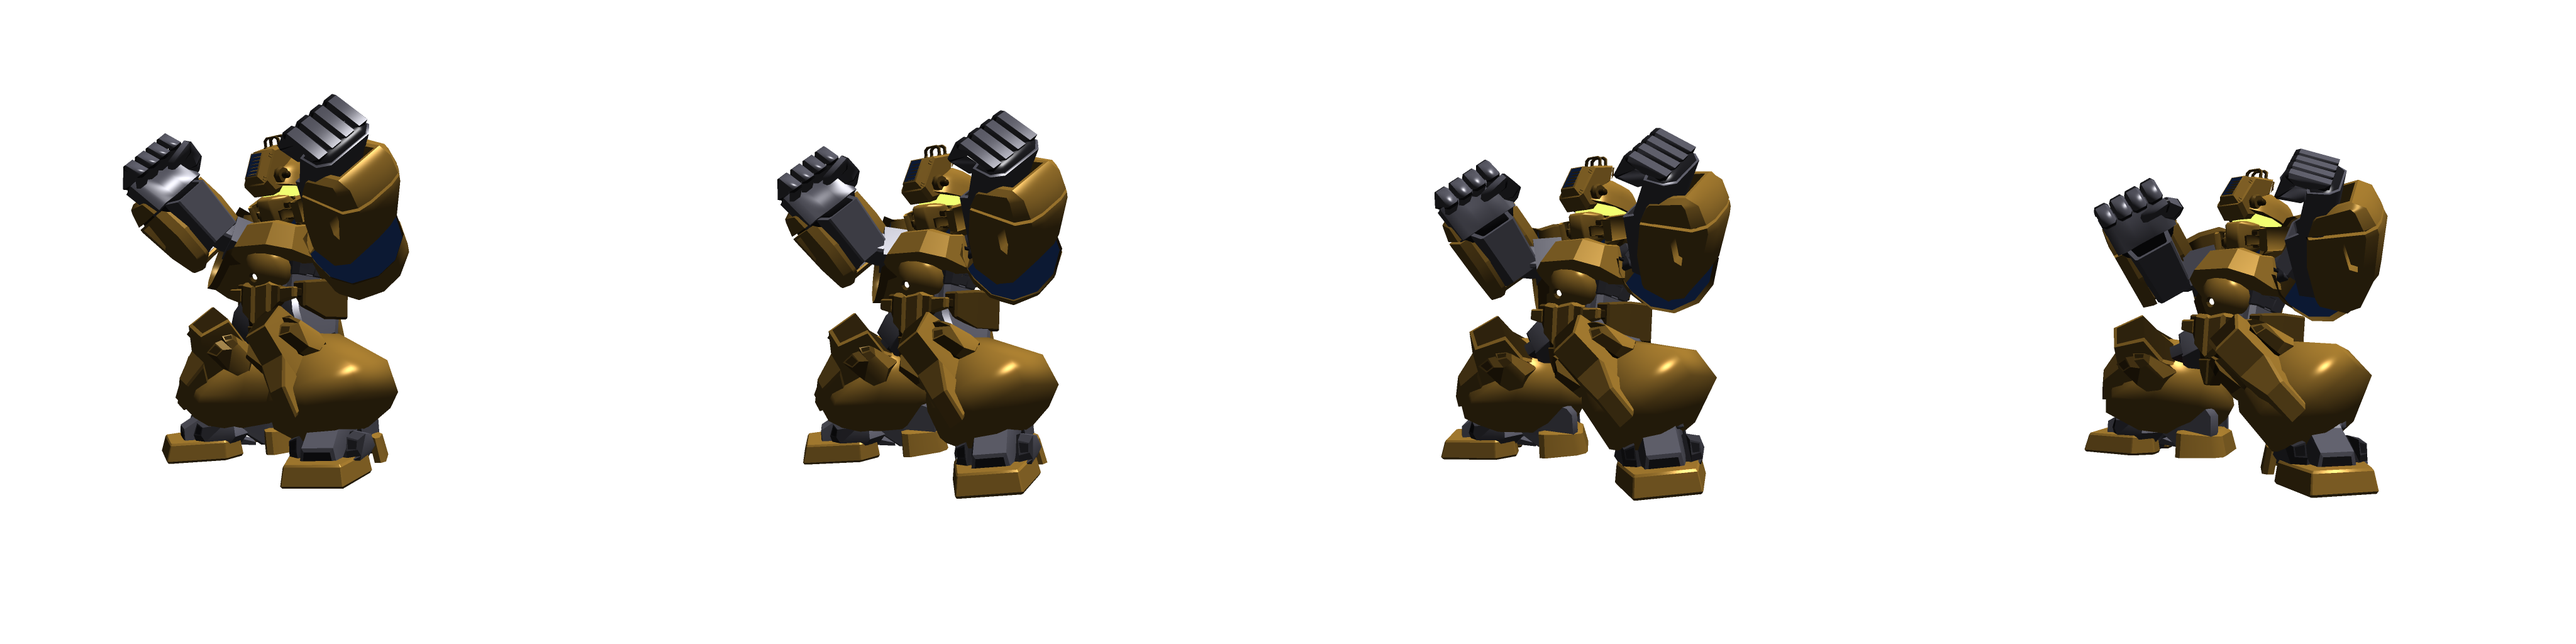
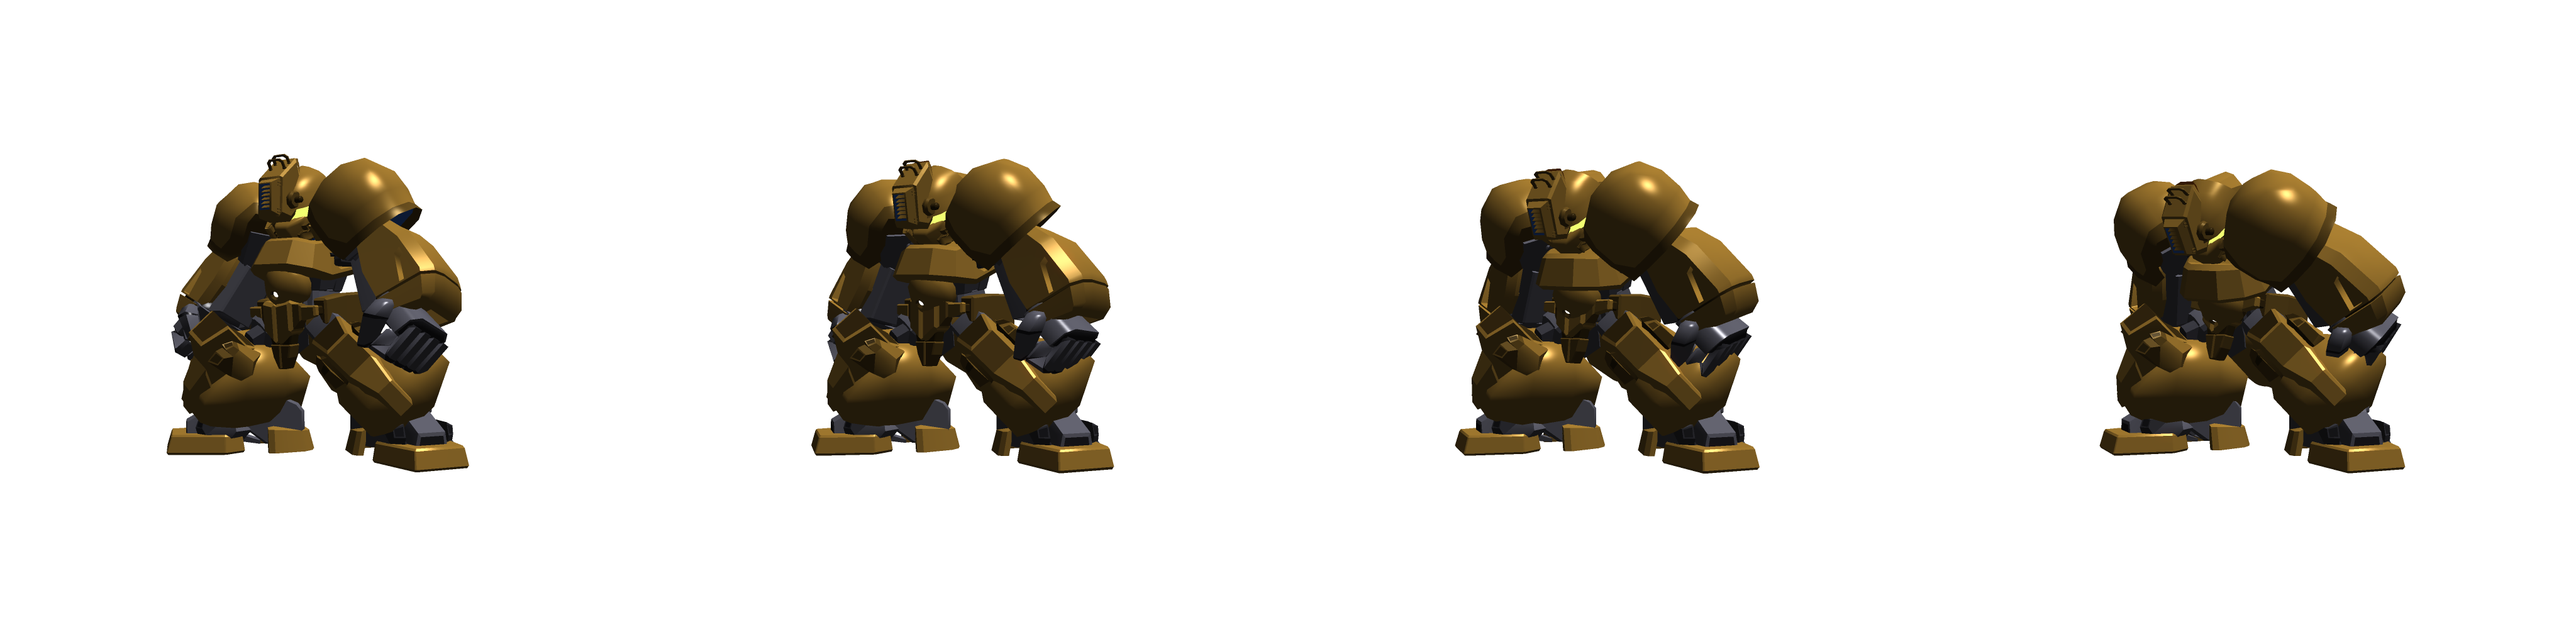
ネオランドーザのターンスタートポーズを調整

diff --git a/src/js/game-object/armdozer/neo-landozer/animation/turn-start.js b/src/js/game-object/armdozer/neo-landozer/animation/turn-start.js
@@ -4,6 +4,7 @@ import {Animate} from "../../../../animation/animate";
 import type {NeoLandozerModel} from "../model/neo-landozer-model";
 import {tween} from "../../../../animation/tween";
 import {process} from '../../../../animation/process';
+import {delay} from "../../../../animation/delay";
 
 /**
  * ターンスタート
@@ -13,11 +14,12 @@ import {process} from '../../../../animation/process';
  */
 export function turnStart(model: NeoLandozerModel): Animate {
   return process(() => {
-    model.animation.type = 'GUTS_UP';
+    model.animation.type = 'GUTS_DOWN';
     model.animation.frame = 0;
-  }).chain(tween(model.animation, t => t.to({frame: 1}, 300)))
+  }).chain(tween(model.animation, t => t.to({frame: 1}, 200)))
+    .chain(delay(100))
     .chain(process(() => {
-      model.animation.type = 'GUTS_DOWN';
+      model.animation.type = 'GUTS_UP';
       model.animation.frame = 0;
     }))
     .chain(tween(model.animation, t => t.to({frame: 1}, 300)));

diff --git a/src/js/resource/texture.js b/src/js/resource/texture.js
@@ -34,7 +34,6 @@ export const TEXTURE_IDS = {
   NEO_LANDOZER_HM_ATTACK: 'NEO_LANDOZER_HM_ATTACK',
   NEO_LANDOZER_HM_TO_STAND: 'NEO_LANDOZER_HM_TO_STAND',
   NEO_LANDOZER_DOWN: 'NEO_LANDOZER_DOWN',
-  NEO_LANDOZER_GUTS: 'NEO_LANDOZER_GUTS',
   NEO_LANDOZER_GUTS_UP: 'NEO_LANDOZER_GUTS_UP',
   NEO_LANDOZER_GUTS_DOWN: 'NEO_LANDOZER_GUTS_DOWN',
   HITMARK_SPARK: 'HITMARK_SPARK',
@@ -110,10 +109,6 @@ export const TEXTURE_CONFIGS: TextureConfig[] = [
   {
     id: TEXTURE_IDS.NEO_LANDOZER_DOWN,
     path: 'armdozer/neo-landozer/down.png',
-  },
-  {
-    id: TEXTURE_IDS.NEO_LANDOZER_GUTS,
-    path: 'armdozer/neo-landozer/guts.png',
   },
   {
     id: TEXTURE_IDS.NEO_LANDOZER_GUTS_DOWN,

diff --git a/src/js/game-object/armdozer/neo-landozer/animation/turn-start-to-stand.js b/src/js/game-object/armdozer/neo-landozer/animation/turn-start-to-stand.js
@@ -13,11 +13,11 @@ import {process} from '../../../../animation/process';
  */
 export function turnStartToStand(model: NeoLandozerModel): Animate {
   return process(() => {
-    model.animation.type = 'GUTS_DOWN';
+    model.animation.type = 'GUTS_UP';
     model.animation.frame = 1;
   }).chain(tween(model.animation, t => t.to({frame: 0}, 300)))
     .chain(process(() => {
-      model.animation.type = 'GUTS_UP';
+      model.animation.type = 'GUTS_DOWN';
       model.animation.frame = 1;
     }))
     .chain(tween(model.animation, t => t.to({frame: 0}, 300)))
